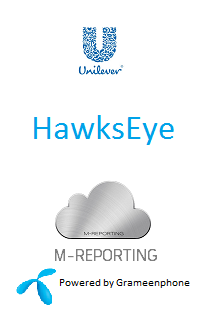
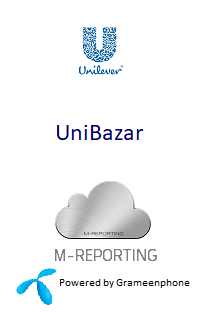
t 5 20180125

Changed region(s): [[0.15, 0.3438, 0.87, 0.4688]]

diff --git a/www/static/survey.js b/www/static/survey.js
@@ -605,7 +605,7 @@ function check_user() {
 		localStorage.outletString='';
 	//	clear_autho();
    		
-	alert (apipath+'check_user?cid='+localStorage.cid+'&cm_id='+localStorage.cm_id+'&cm_pass='+localStorage.cm_pass+'&synccode='+localStorage.synccode)
+	//alert (apipath+'check_user?cid='+localStorage.cid+'&cm_id='+localStorage.cm_id+'&cm_pass='+localStorage.cm_pass+'&synccode='+localStorage.synccode)
 	//$("#error_login").html(apipath+'check_user?cid='+localStorage.cid+'&cm_id='+localStorage.cm_id+'&cm_pass='+localStorage.cm_pass+'&synccode='+localStorage.synccode);	
    		$.ajax({
 				 type: 'POST',
@@ -1439,6 +1439,7 @@ HairCareStr=HairCareStr+HairCare_image_path4+'fdfd'+HairCare_image_name4+'fdfd'+
 //		if (errorFlag == false){
 			var url = "#fixedDisplay";
 			$.mobile.navigate(url);
+			
 		
 		}
 		
@@ -1728,6 +1729,7 @@ function Cat_page_set() {
 
 function syncOutlet() { 
 	result_string=localStorage.selected_outletinfo_all_final;
+	$("#fdLoad_image").show()
 	
 	//alert (apipath+'sync_outlet?cid='+localStorage.cid+'&cm_id='+localStorage.cm_id+'&cm_pass='+localStorage.cm_pass+'&synccode='+localStorage.synccode+'&outlet='+localStorage.outletNameID);
 	$.ajax({
@@ -1749,6 +1751,8 @@ function syncOutlet() {
 					var result_string=resultArray[1];
 					
 			if (result_string.length > 50){
+			
+			
 			var npdArray = result_string.split('</npdList>');									
 			npdList = npdArray[0].split("<npdList>")[1];
 			//alert (npdList)
@@ -1912,7 +1916,10 @@ function syncOutlet() {
 			
 			localStorage.fdisplayStringShow=fdisplayStringShow
 			$("#fdisplay").html(localStorage.fdisplayStringShow);
-
+			
+			$("#fdLoad_image").hide()
+			
+			
 
 			//==========Create QPDS Display list
 		
@@ -2002,7 +2009,8 @@ function syncOutlet() {
 			//===============================
 					
 					}
-					
+				
+				location.reload();	
 			   }//end else
 		  },
 	  error: function(result) {
@@ -2255,11 +2263,11 @@ function fdisplay_ready_data() {
 	}
 		localStorage.fdisplay_data=fdisplay_data
 		
-		//if (errorFlag==false){
+		if (errorFlag==false){
 	
 			//local
 		
-		if (errorFlag==true){
+		//if (errorFlag==true){
 		var url = "#submitPage";
 		$.mobile.navigate(url);
 		}
@@ -2402,13 +2410,14 @@ function sf_ready_data() {
 //		errorFlag=false
 //	}
 	
-	//if (errorFlag==false){
+	if (errorFlag==false){
 	//Local
-	if (errorFlag==true){
+	//if (errorFlag==true){
 		//var url = "#submitPage";
 		var url = "#fixedDisplay";
-		
 		$.mobile.navigate(url);
+		//location.reload();
+		
 	}
 }
 function place_page_set() { 
@@ -2627,7 +2636,7 @@ function submit_data() {
 			var outletG=localStorage.outletNameID
 			var outlet=outletG.split('[')[1].replace(']','')
 			//$( "#dataShow").text(apipath+'syncSubmitData?cid='+localStorage.cid+'&cm_id='+localStorage.cm_id+'&cm_pass='+localStorage.cm_pass+'&synccode='+localStorage.synccode+'&outlet='+outlet+'&scheduleDate='+ localStorage.selected_date +'&outletEx='+localStorage.outletException+'&channel='+localStorage.outletChannel+'&latlong='+latlong+'&visitDate='+visitDate+'&startTime='+localStorage.startTime+'&endTime='+endTime+'&CategoryStr='+localStorage.CategoryStr+'&npd_data='+localStorage.npd_data+'&fdisplay_data='+localStorage.fdisplay_data+'&qpds_data='+localStorage.qpds_data+'&place_data='+localStorage.place_data);
-			//alert (apipath+'syncSubmitData?cid='+localStorage.cid+'&cm_id='+localStorage.cm_id+'&cm_pass='+localStorage.cm_pass+'&synccode='+localStorage.synccode+'&outlet='+outlet+'&scheduleDate='+ localStorage.selected_date +'&outletEx='+localStorage.outletException+'&channel='+localStorage.outletChannel+'&latlong='+latlong+'&visitDate='+visitDate+'&startTime='+localStorage.startTime+'&endTime='+endTime+'&CategoryStr='+localStorage.CategoryStr+'&npd_data='+localStorage.npd_data+'&fdisplay_data='+localStorage.fdisplay_data+'&qpds_data='+localStorage.qpds_data+'&place_data='+localStorage.place_data)
+			//alert (apipath+'syncSubmitData?cid='+localStorage.cid+'&cm_id='+localStorage.cm_id+'&cm_pass='+localStorage.cm_pass+'&synccode='+localStorage.synccode+'&outlet='+outlet+'&scheduleDate='+ localStorage.selected_date +'&outletEx='+localStorage.outletException+'&channel='+localStorage.outletChannel+'&latlong='+latlong+'&visitDate='+visitDate+'&startTime='+localStorage.startTime+'&endTime='+endTime+'&CategoryStr='+localStorage.CategoryStr+'&npd_data='+localStorage.npd_data+'&fdisplay_data='+localStorage.fdisplay_data+'&qpds_data='+localStorage.qpds_data+'&place_data='+localStorage.place_data+'&sf_data='+localStorage.sf_data)
 			var check_outlet= localStorage.outletString;
 			localStorage.outletChannel='MT'
 			$.ajax({
@@ -2742,7 +2751,9 @@ function submit_data() {
 //										// Enable disable div end
 //										
 //										
-										upload_category();
+										//upload_category();
+										upload_fd()
+										
 										cancel_outlet();
 										var url = "#outletPage";
 										$.mobile.navigate(url);
@@ -3524,7 +3535,7 @@ function upload_fd(){
 		}
 		
 	}
-	upload_qpds();
+	//upload_qpds();
 
 }
 

diff --git a/www/index.html b/www/index.html
@@ -73,7 +73,7 @@ $(document).ready(function(){
 				$("#lat").val(localStorage.latitude);
 				$("#long").val(localStorage.longitude);
 				//$("#sub_button").hide();
-				buttonCheck();
+				//buttonCheck();
 				
 				
 				
@@ -90,12 +90,14 @@ $(document).ready(function(){
 //				
 //				
 //				$("#mhskus").html(localStorage.mhskusStringShow);
-				$("#npd").html(localStorage.npdStringShow);
+				//$("#npd").html(localStorage.npdStringShow);
 				$("#fdisplay").html(localStorage.fdisplayStringShow);
+				
+				$("#fdLoad_image").hide()
 //				
 //				$("#fdisplayStringShowBefore").html(localStorage.fdisplayStringShowBefore);
 				
-				$("#qpds").html(localStorage.qpdsStringShow);
+			//	$("#qpds").html(localStorage.qpdsStringShow);
 			//	alert (localStorage.qpdsStringShow)
 //				//$("#gift").html(localStorage.giftStringShow);
 //				$("#gift").empty();
@@ -149,9 +151,9 @@ $(document).ready(function(){
 				$('#outletSyncmsg').html(localStorage.syncinfo);
 				
 				
-				$("#selectItem").html(localStorage.marchadizingItemStringShow);
+				//$("#selectItem").html(localStorage.marchadizingItemStringShow);
 				
-				$("#selectBrand").html(localStorage.marchadizingBrandStringShow);
+				//$("#selectBrand").html(localStorage.marchadizingBrandStringShow);
 				
 				
 				//alert (localStorage.m_new);
@@ -187,31 +189,31 @@ $(document).ready(function(){
 					localStorage.outletException="";
 					localStorage.outletChanne="";
 					localStorage.outletNameID="";
-					localStorage.mhskusTotal="";
+					//localStorage.mhskusTotal="";
 					
-					localStorage.npdTotal="";
+					//localStorage.npdTotal="";
 					localStorage.fdisplaySlabTotal="";
 					localStorage.fdisplayTotal="";
-					localStorage.qpdsSlabTotal="";
+				//	localStorage.qpdsSlabTotal="";
 					
-					localStorage.qpdsTotal="";
-					localStorage.giftTotal="";
-					localStorage.marchadizingTotal="";
-					localStorage.mhskus_data_ready="";
-					localStorage.npd_data_ready="";
+					//localStorage.qpdsTotal="";
+//					localStorage.giftTotal="";
+//					localStorage.marchadizingTotal="";
+//					localStorage.mhskus_data_ready="";
+//					localStorage.npd_data_ready="";
 					localStorage.fdisplay_data_ready="";
-					localStorage.qpds_data_ready="";
-					localStorage.gift_data_ready="";
-					localStorage.mar_data_ready="";
+					//localStorage.qpds_data_ready="";
+//					localStorage.gift_data_ready="";
+//					localStorage.mar_data_ready="";
 					
 					//localStorage.sync_date=sync_date;
 					//localStorage.synced=='YES';
 					
 					
 					//distributon
-					localStorage.mar_distrib_data=""
-					localStorage.merchandisingDistribStr=""
-					localStorage.mar_distrib_stock=""
+				//	localStorage.mar_distrib_data=""
+				//	localStorage.merchandisingDistribStr=""
+				//	localStorage.mar_distrib_stock=""
 					
 					
 					//alert (localStorage.sync_date)
@@ -284,7 +286,7 @@ function MM_jumpMenu(targ,selObj,restore){ //v3.0
            <div data-role="panel" id="routePanel" data-display="overlay" style="width:60%;">
 				<!-- panel content goes here -->
 				<img style="width:100%;"  src="unilogo1.png" alt="UNILEVER" /><br>
-				<font style="color:#007D7D; font-size:25px;">HAWK'S EYE</font><br>
+				<font style="color:#007D7D; font-size:25px;">UniBazar</font><br>
 				<font style="color:#007D7D; font-size:11px;">© Unilever Bangladesh Ltd.</font>
 				<br><br><br>
 				
@@ -1014,7 +1016,10 @@ function MM_jumpMenu(targ,selObj,restore){ //v3.0
 			<div  data-role="content" style="height:90%" >
 
             <!--<div id="fdisplay_show"></div>-->
-	
+			
+            <br>
+            
+            <div id="fdLoad_image" ><img height="40px" width="40px" src="loading.gif"></div>
     		<div id="fdisplay"></div>
     
     			
